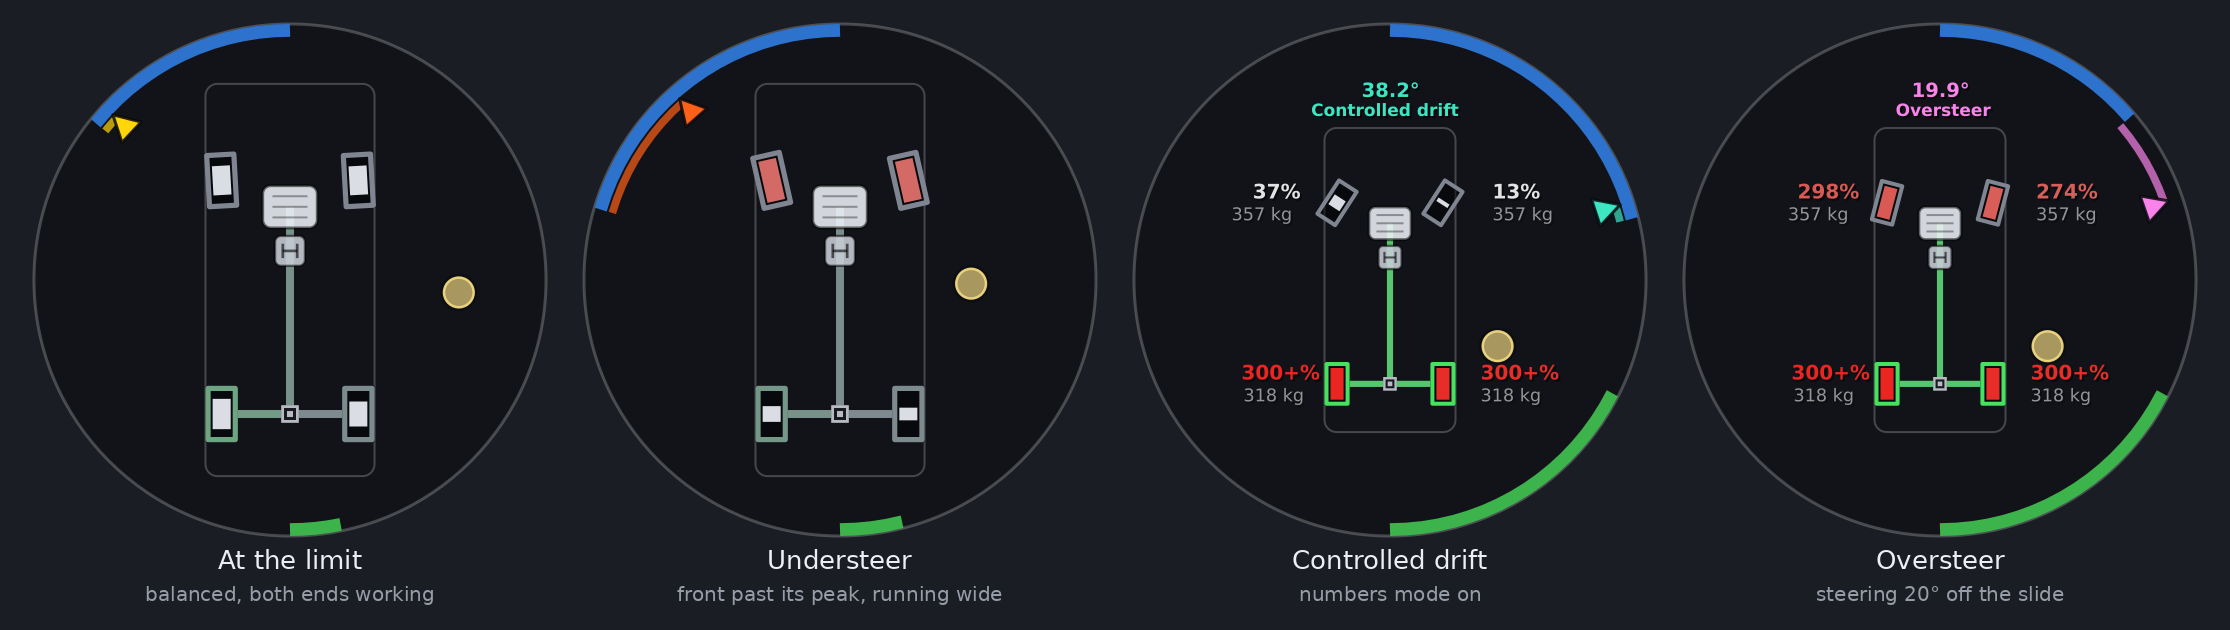
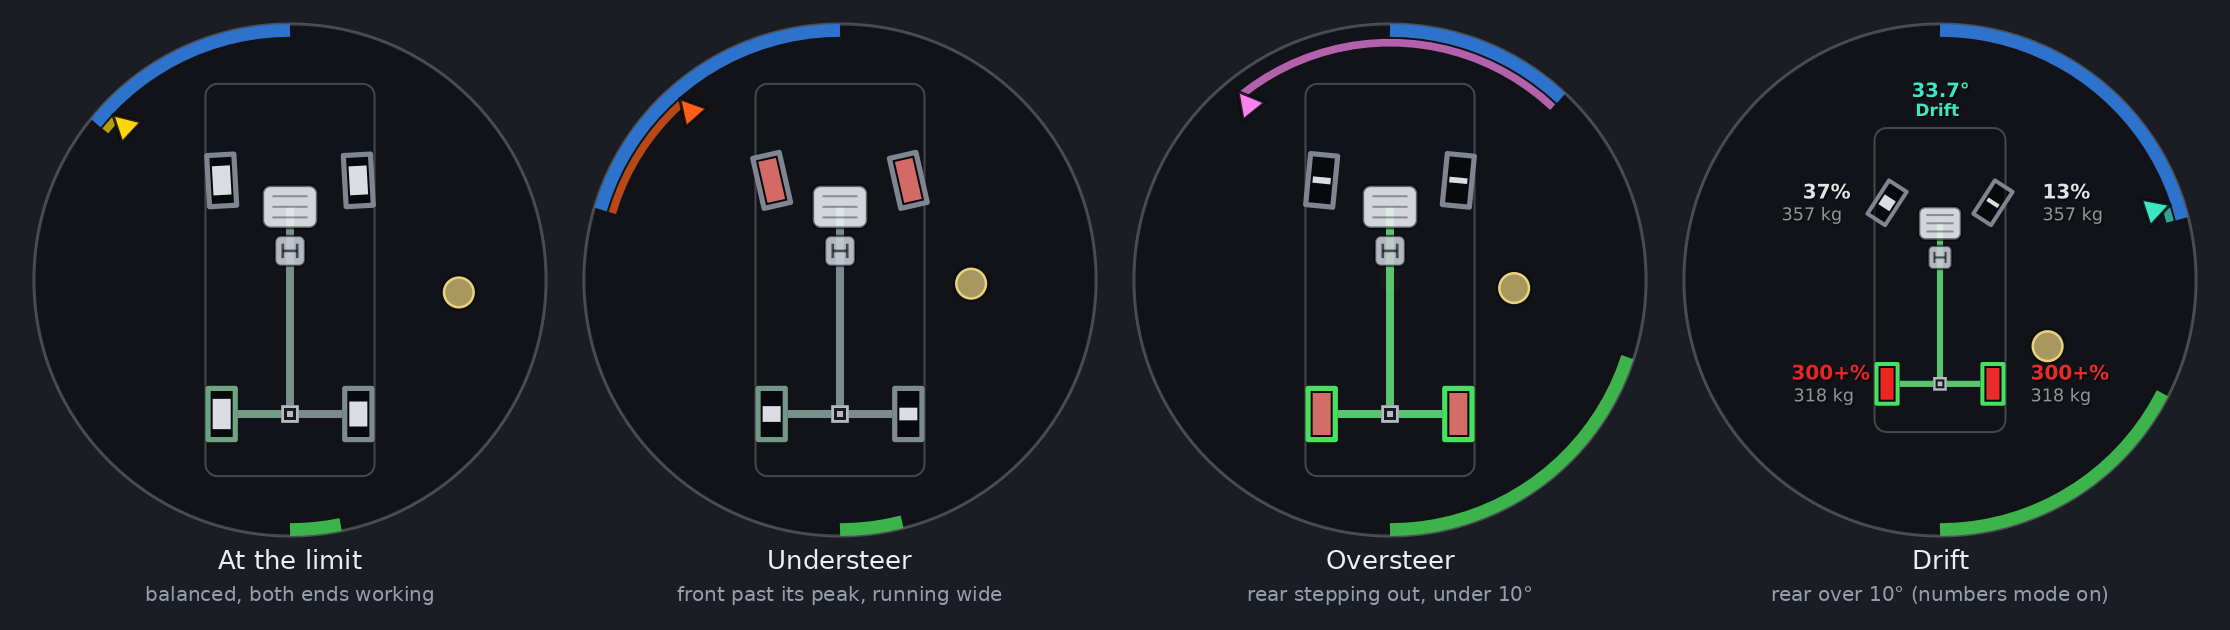
More Accurate Drift Detection

diff --git a/README.md b/README.md
@@ -4,7 +4,7 @@ A live grip display for Assetto Corsa, ported from the BeamNG.drive version (2.5
 
 It's a Custom Shaders Patch (CSP) Lua app. The picture, colours and rules are the BeamNG version's. Where AC reports things differently, the app reads what AC has. [What's different from the BeamNG version](#whats-different-from-the-beamng-version) lists every change.
 
-![The balance states: at the limit, understeer, a controlled drift with numbers mode on, and oversteer](docs/balance.png)
+![The balance states: at the limit, understeer, oversteer, and a drift with numbers mode on](docs/balance.png)
 
 ## Install
 
@@ -30,7 +30,7 @@ It shows the car the camera is on, so it works in replays and while spectating t
 | Green outline on a tyre | Drive torque is going through it |
 | Red outline on a tyre | It's being braked (brakes or engine braking) |
 | Blue arc from the top of the rim | Steering input |
-| Wedge just inside the steering arc (only when the car is off balance) | How much the car is actually turning. Yellow: one end, or both, is nearing its limit. Orange-red: understeer. Pink-magenta: oversteer, the rear sliding. Aquamarine: a drift or an all-wheel-drive powerslide you're holding |
+| Wedge just inside the steering arc (only when the car is off balance) | How much the car is actually turning. Yellow: one end, or both, is nearing its limit. Orange-red: understeer. Pink-magenta: oversteer, the rear stepping out. Aquamarine: a drift (the rear over 10° at more than 20 km/h), or an all-wheel-drive powerslide you're holding |
 | Red arc from the bottom, towards the left | Brake pedal (pulses while ABS works) |
 | Green arc from the bottom, towards the right | Throttle (pulses darker while traction control cuts power) |
 | Thin white arc along the edge, over the throttle | Clutch pedal |
@@ -41,7 +41,23 @@ It shows the car the camera is on, so it works in replays and while spectating t
 
 ![Wheels: locked, ABS, going light, off the ground](docs/wheels.png)
 
-The direction marker, the steering scale (stretched around the centre, more so with speed), the state colours and how long each is held, the G-force smoothing and the drift and powerslide rules all work as in the BeamNG README. That README has the details.
+The direction marker, the steering scale (stretched around the centre, more so with speed), the state colours and how long each is held, the G-force smoothing and the powerslide rule all work as in the BeamNG README. That README has the details.
+
+## Drift
+
+Drift detection uses the rule from Damgam's **Drift Scoring** app:
+
+- **The drift angle** is the rear tyres' slip angle as AC reports it (the larger of the two, from the wheels on the ground).
+- **It's a drift** when that angle is over **10°** at more than **20 km/h**. Braking or the handbrake doesn't stop it counting.
+- **Going backwards**, the angle is measured from the other end (180° minus the slip angle), as in Drift Scoring.
+- **Past 120°** it's a spin, not a drift, and the marker goes back to pink.
+- **Through a transition** the angle passes through zero when you flick from one direction to the other. The drift is held for **0.5 s** so the colour doesn't drop out. It ends at once if you spin or drop under 20 km/h.
+
+While drifting, the marker and its band are aquamarine. Numbers mode shows **Drift** with the drift angle, like Drift Scoring's angle meter.
+
+A rear stepping out by less than 10°, or a slide below 20 km/h, is still oversteer (pink). Drift Scoring's off-track, direction-of-lap and scoring rules don't apply here: a slide on the grass is still a slide.
+
+This replaces the BeamNG version's "controlled drift" test, which also wanted the front wheels pointing almost exactly where the front was going and the slide not growing. That was too strict: it hardly ever showed.
 
 ## Drivetrain
 
@@ -97,6 +113,9 @@ The rest are constants at the top of `src/telemetry.lua` (the `TUNE` table) and 
 | `PAST_ON` | 1.0 | Front `ndSlip` from which it's past its peak (understeer, when it's also nearer its limit than the rear) |
 | `SR_PEAK` | 0.12 | Slip ratio shown as full drive or braking on a tyre's outline |
 | `SR_ABS` | 0.04 | Braking slip ratio from which a wheel gets the ABS dot while ABS works |
+| `DRIFT_MIN_ANGLE` / `DRIFT_MAX_ANGLE` | 10 / 120 | Rear slip angle (degrees) from which it's a drift, and past which it's a spin |
+| `DRIFT_MIN_SPEED` | 20 | km/h a drift must be faster than |
+| `DRIFT_HOLD` | 0.5 | Seconds a drift is held after the angle drops (through a transition) |
 | `MID_ENGINE_BELOW` / `REAR_ENGINE_BELOW` | 0.47 / 0.40 | Weight on the front below which the engine is placed mid or rear (automatic engine position) |
 
 After editing, restart the session, or close the app and open it again. It's fully unloaded when closed.
@@ -120,7 +139,8 @@ This port hasn't run in Assetto Corsa itself yet. It was tested outside the game
 - **The scenarios:**
   - a balanced corner, which reads *at the limit*;
   - hard turn-in on an understeery car: *front near limit*, then *understeer*;
-  - a growing slide, a held 30° drift (*controlled drift*), the same drift with the steering 20° off (*oversteer*), and a spin;
+  - the rear stepping out under 10° (*oversteer*), then a growing slide past 10°, a held 30° drift and the same drift with the steering 20° off (all *drift*);
+  - a flick from a left drift to a right one through zero (held as *drift*), a spin past 120° going backwards (drift ends), and a 25° slide at 15 km/h (*oversteer*, too slow to count);
   - straight braking with and without ABS;
   - a wheel lifting and a blown tyre;
   - all four drive layouts;
